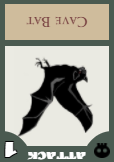
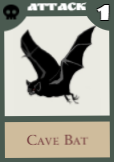
fixed card rotation for top player

diff --git a/src/css/GameScreen.css b/src/css/GameScreen.css
@@ -933,15 +933,19 @@
     z-index: 20;
 }
 
+.player-top .bat-img {
+    transform: rotate(180deg);
+}
+
 @keyframes attackOpponent {
     0% { 
         opacity: 0;
         transform: rotateX(45deg) translateX(0px) translateY(0px);
         transform-style: preserve-3d;
         }
-    20% { 
-        transform: rotateX(45deg) translateX(0px) translateY(0px);
-        opacity: 20%;
+    20% {
+        opacity: 20%; 
+        transform: rotateX(45deg) translateX(0px) translateY(0px);        
         }
     100%    { transform: translateX(560px) translateY(-200px) }
 }

diff --git a/src/GameScreen/Player.js b/src/GameScreen/Player.js
@@ -70,7 +70,7 @@ function Clairvoyance({ player }) {
 // that attacks opponent with any other player action
 const BatCard = () => (
     <div className="item-attacks">
-        <img src={bat} alt="bat card" />
+        <img className="bat-img" src={bat} alt="bat card" />
     </div>
 );
 
